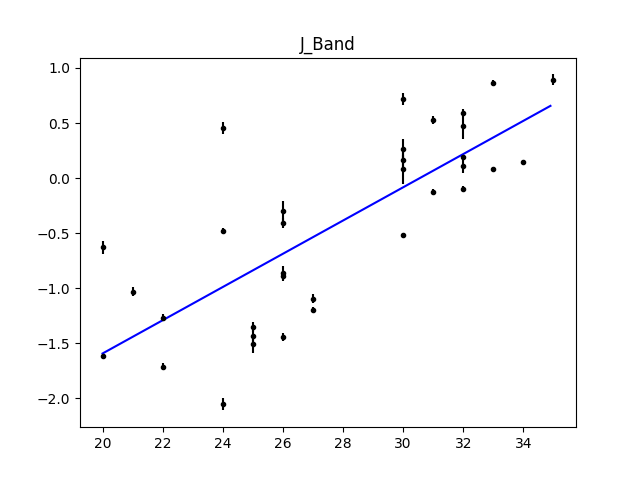
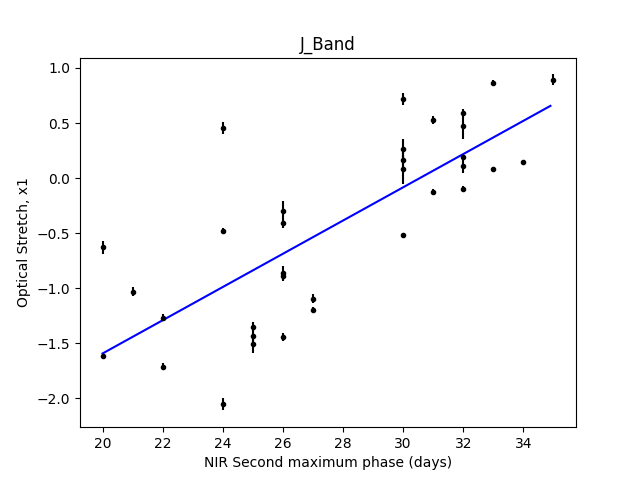
Use cubic or linear spline to fit light curves. Ignore lightcurves with 3 or fewer data points. Create combined optical x1 vs nir second max plots

Changed region(s): [[0.3125, 0.9375, 0.7188, 1.0], [0.0312, 0.4375, 0.0625, 0.625], [0.0312, 0.375, 0.0625, 0.4062]]

diff --git a/scripts/fit_light_curve.py b/scripts/fit_light_curve.py
@@ -2,6 +2,8 @@ import os
 import numpy as np
 import pandas as pd
 from scipy.signal import argrelextrema
+from scipy import interpolate
+import matplotlib.pyplot as plt
 
 
 class LightCurve(object):
@@ -58,13 +60,31 @@ class LightCurve(object):
         phase = self.data['Phase(T_Bmax)'].values
         absMag = self.data['Abs mag'].values
         xBins = np.arange(-10, 100, self.bin_size)
-        yBinned = np.interp(x=xBins, xp=phase, fp=absMag, left=np.NaN, right=np.NaN)
+        # yBinned = np.interp(x=xBins, xp=phase, fp=absMag, left=np.NaN, right=np.NaN)
+        if len(phase) <= 3:
+            return None, None
+
+        # Repeat values cause error in spline interpolation
+        phase, unique_args = np.unique(phase, return_index=True)
+        absMag = absMag[unique_args]
+
+        y = interpolate.interp1d(x=phase, y=absMag, kind='slinear', bounds_error=False, fill_value=np.NaN)
+        yBinned = y(xBins)
+        # plt.figure()
+        # plt.errorbar(phase, absMag, yerr=self.data['Error Abs mag'], fmt='o')
+        # plt.plot(xBins, yBinned)
+        # plt.gca().invert_yaxis()
+        # plt.xlabel('Phase (days)')
+        # plt.ylabel('Abs Mag')
+        # plt.show()
 
         return xBins, yBinned
 
     def get_peaks(self, axis=None, cm=None, zorder=None):
 
         xBins, yBins = self.bin_light_curve()
+        if xBins is None:
+            return None, None
 
         peakIndexes = argrelextrema(yBins, np.less)
         peakPhases = xBins[peakIndexes]

diff --git a/scripts/optical_parameters.py b/scripts/optical_parameters.py
@@ -56,7 +56,7 @@ class CompareOpticalAndNIR(object):
         fig.suptitle(self.bandName)
         plt.savefig("Figures/%s_opticalParams_vs_NIR_peaks" % self.bandName)
 
-    def x1_vs_second_max_phase(self):
+    def x1_vs_second_max_phase(self, fig=None, ax=None, i=0, band=''):
         x = self.nirPeaks['secondMaxPhase'].values.astype('float')
         y = self.opticalData['x1'].values.astype('float')
         yerr = self.opticalData['x1_err'].values.astype('float')
@@ -73,10 +73,19 @@ class CompareOpticalAndNIR(object):
         plt.figure()
         plt.errorbar(x, y, yerr=yerr, fmt='.k')
         plt.plot(x_pred, y_pred, 'b')
+        plt.xlabel('NIR Second maximum phase (days)')
+        plt.ylabel('Optical Stretch, x1')
         plt.title(self.bandName)
         plt.savefig("Figures/%s_x1_vs_2nd_max_phase.png" % self.bandName)
 
-
+        if fig is not None:
+            ax[i].errorbar(x, y, yerr=yerr, fmt='.k')
+            ax[i].plot(x_pred, y_pred, 'b')
+            ax[i].set_ylabel('{} optical x1'.format(band))
+            ax[-1].set_xlabel('NIR Second maximum phase (days)')
+            fig.subplots_adjust(hspace=0)
+            plt.setp([a.get_xticklabels() for a in fig.axes[:-1]], visible=False)
+            fig.savefig("Figures/x1_vs_2nd_max_phase.png", bbox_inches='tight')
 
         # def lnlike(theta, x, y, yerr):
         #     m, b, lnf = theta

diff --git a/scripts/main.py b/scripts/main.py
@@ -13,7 +13,8 @@ def main():
     bandList = ['H_band', 'J_Band', 'K_band', 'Y_Band']
     colorMarker = get_colors_and_markers()
 
-    for band in bandList:
+    fig_x1, ax_x1 = plt.subplots(len(bandList), figsize=(6, 10), sharex=True)
+    for i, band in enumerate(bandList):
         filenameList, scriptDir = get_filenames(band)
         popStats = PopulationStatistics(filenameList, band)
         xBinsArray, yBinsArray, peaks, headerData = popStats.get_binned_light_curves(colorMarker=colorMarker, plot=True, bin_size=1)
@@ -22,7 +23,7 @@ def main():
 
         opticalNIR = CompareOpticalAndNIR('data/Table_salt_snoopy_fittedParams.txt', labelledMaxima, band)
         opticalNIR.nir_peaks_vs_optical_params()
-        opticalNIR.x1_vs_second_max_phase()
+        opticalNIR.x1_vs_second_max_phase(fig_x1, ax_x1, i, band)
 
     plt.show()
 

diff --git a/scripts/population_statistics.py b/scripts/population_statistics.py
@@ -60,6 +60,8 @@ class PopulationStatistics(object):
             try:
                 xBins, yBins = lightCurve.bin_light_curve()
                 peakPhases, peakFluxes = lightCurve.get_peaks(axis=ax[1], cm=colorMarker[i], zorder=zorder)
+                if peakPhases is None:
+                    continue
                 header = lightCurve.snVars
                 xBinsList.append(xBins)
                 yBinsList.append(yBins)
